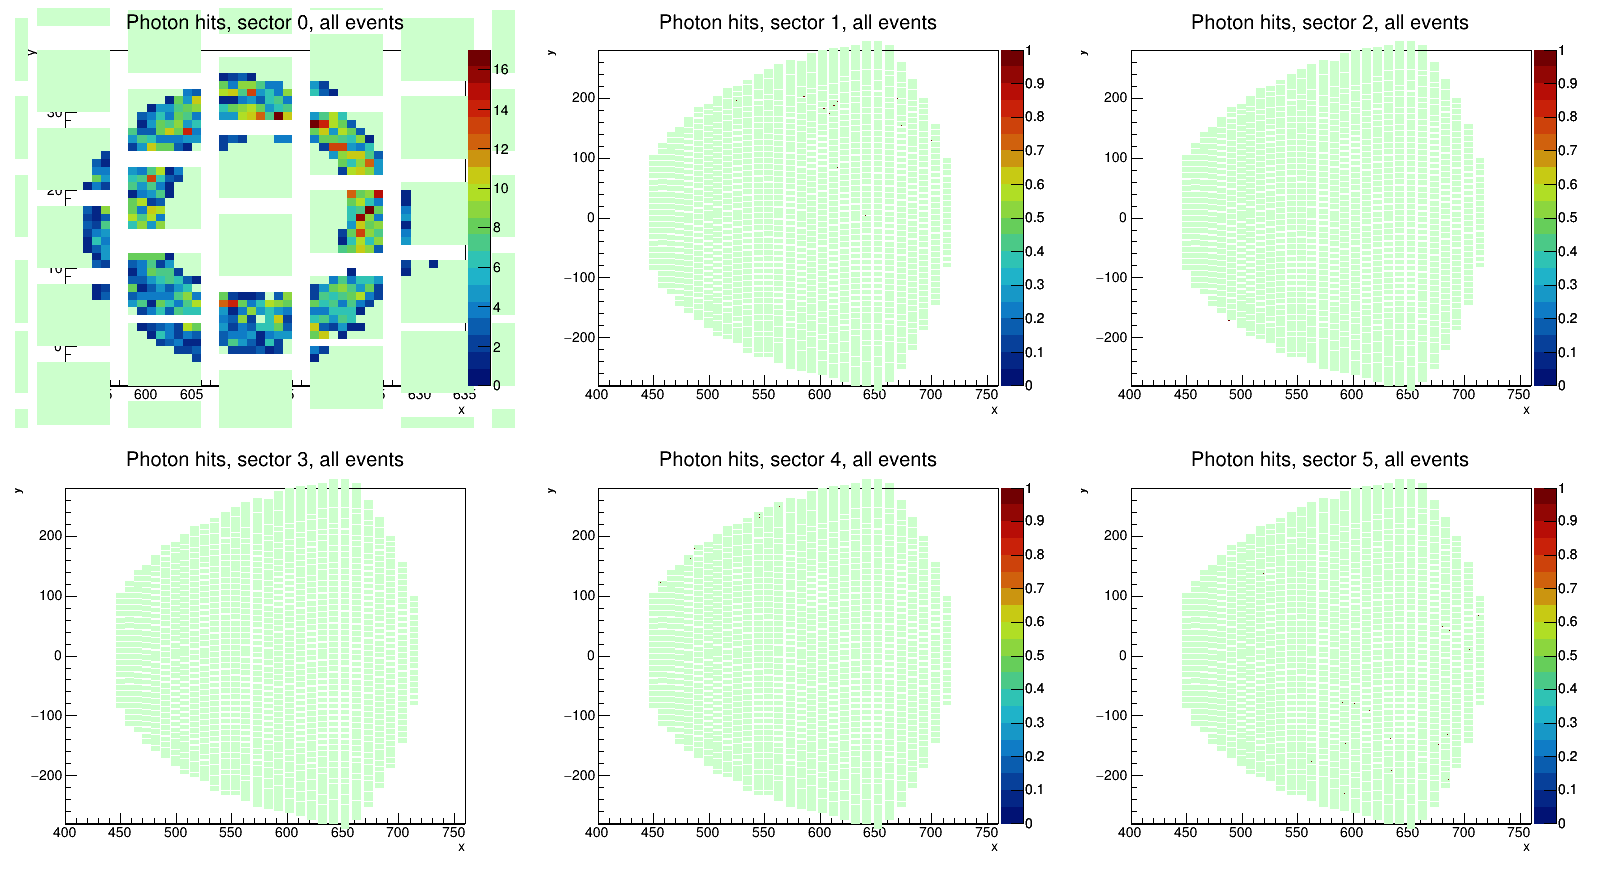
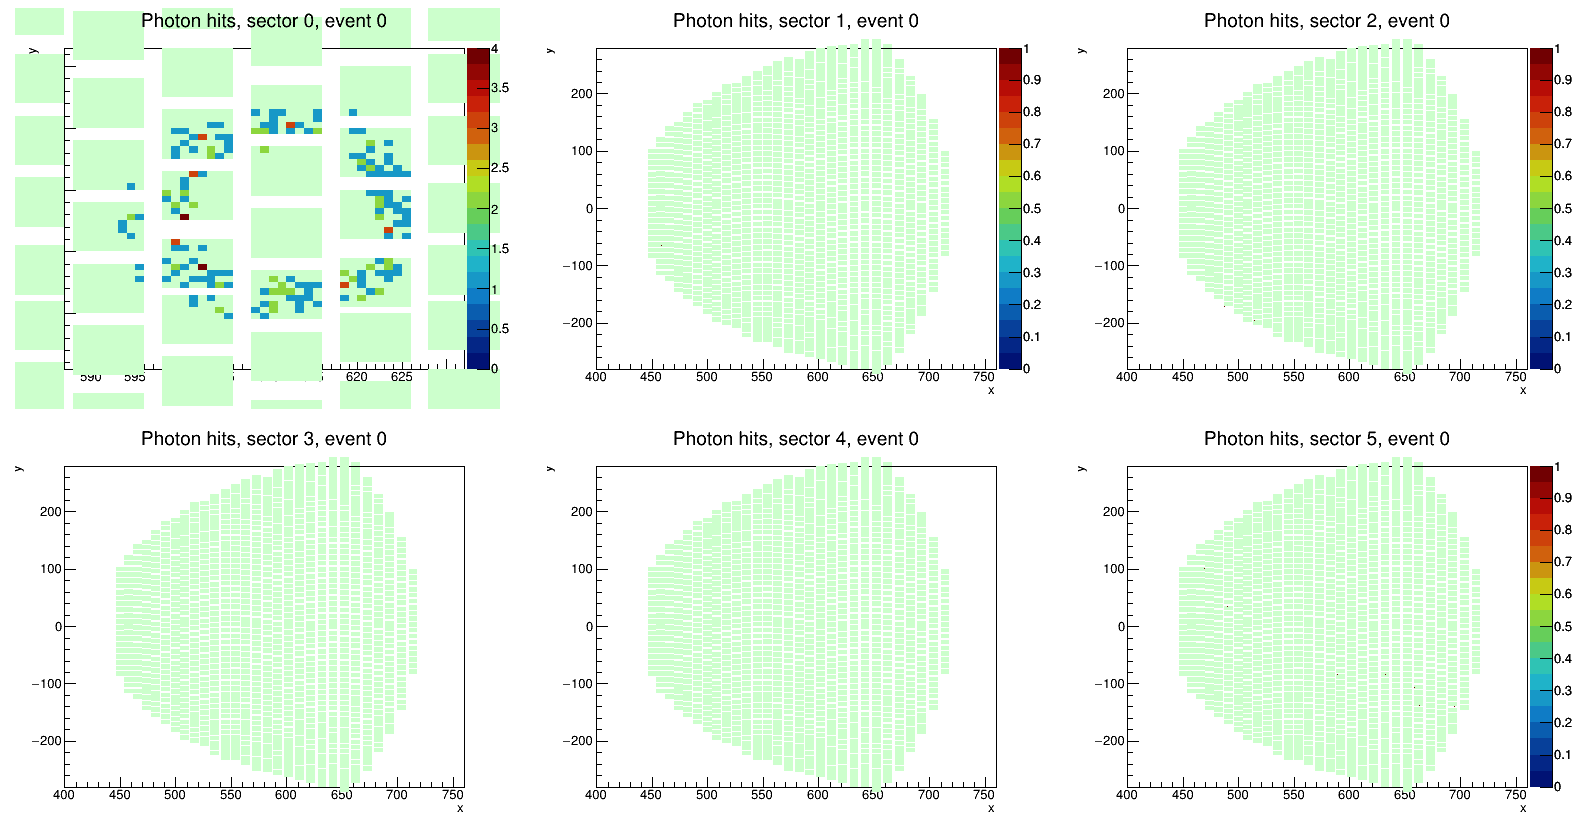
modified:   doc/tutorials/1-setup-and-running-simulations.md

diff --git a/doc/tutorials/1-setup-and-running-simulations.md b/doc/tutorials/1-setup-and-running-simulations.md
@@ -268,7 +268,10 @@ Each green box is a single SiPM, and each histogram bin is a single SiPM pixel (
 ```cpp
 #define INTERACTIVE_USE
 ```
-Then re-compile (`make`) and rerun. This will keep the `TCanvas` open and allow you to zoom in. For example, here is a closeup of the gas ring:
+Then re-compile (`make`) and rerun. This will keep the `TCanvas` open and allow you to zoom in. For example, here is a closeup of the gas ring from a single event, by running
+```bash
+event_display d s out/sim.edm4hep.root 0
+```
 
 ![sim-ev-all-zoom](img/sim-ev-all-zoom.png)
 
